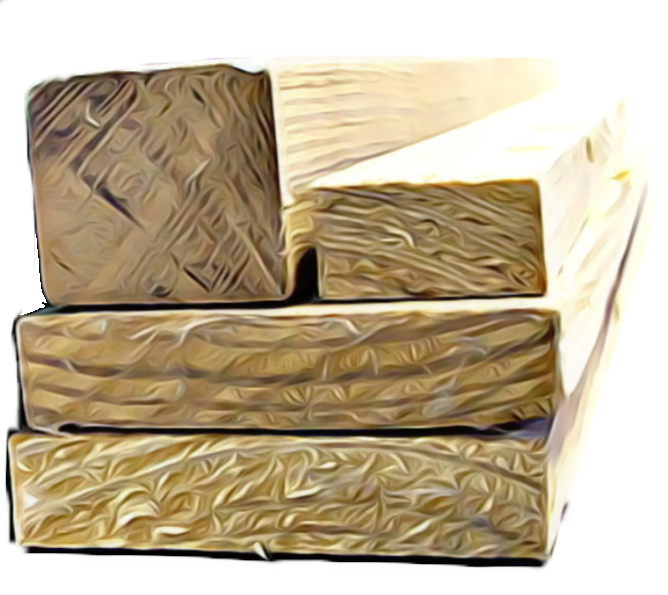
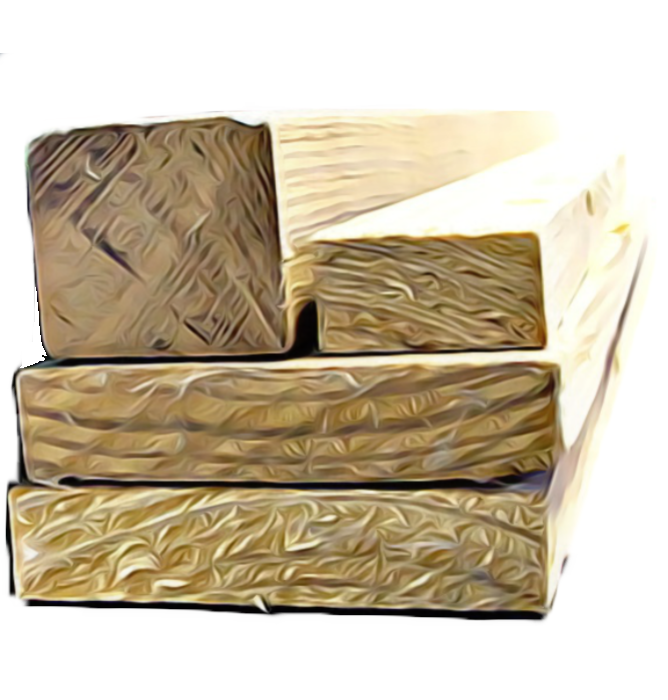
Changed images; testing wood graphics

diff --git a/Priority_2_Thermodynamics/Flammable_Steel/js/main.js b/Priority_2_Thermodynamics/Flammable_Steel/js/main.js
@@ -1,5 +1,6 @@
 /* File: main.js
- * Dependencies: Fire.js, FlammableItem.js, Steel.js, Match.js, Matchbox.js
+ * Dependencies: Fire.js, FlammableItem.js, Steel.js, Match.js, Matchbox.js,
+ *               Wood.js
  *
  * Author: Brooke Bullek (June 2017)
  *         Under the supervision of Margot Vigeant, Bucknell University
@@ -15,6 +16,11 @@ var STEEL2_URL = "https://github.com/DTV96Calibre/InquiryActivities/blob/master/
 var STEEL3_URL = "https://github.com/DTV96Calibre/InquiryActivities/blob/master/Priority_2_Thermodynamics/Flammable_Steel/images/steel3.png?raw=true";
 var STEEL4_URL = "https://github.com/DTV96Calibre/InquiryActivities/blob/master/Priority_2_Thermodynamics/Flammable_Steel/images/steel4.png?raw=true";
 var STEEL_FIRE_URL = "https://github.com/DTV96Calibre/InquiryActivities/blob/master/Priority_2_Thermodynamics/Flammable_Steel/images/steelwool-fire.png?raw=true";
+var WOOD0_URL = "https://github.com/DTV96Calibre/InquiryActivities/blob/master/Priority_2_Thermodynamics/Flammable_Steel/images/wood0.png?raw=true";
+var WOOD1_URL = "https://github.com/DTV96Calibre/InquiryActivities/blob/master/Priority_2_Thermodynamics/Flammable_Steel/images/wood1.png?raw=true";
+var WOOD2_URL = "https://github.com/DTV96Calibre/InquiryActivities/blob/master/Priority_2_Thermodynamics/Flammable_Steel/images/wood2.png?raw=true";
+var WOOD3_URL = "https://github.com/DTV96Calibre/InquiryActivities/blob/master/Priority_2_Thermodynamics/Flammable_Steel/images/wood3.png?raw=true";
+var WOOD4_URL = "https://github.com/DTV96Calibre/InquiryActivities/blob/master/Priority_2_Thermodynamics/Flammable_Steel/images/wood4.png?raw=true";
 var MATCH_UP_URL = "https://github.com/DTV96Calibre/InquiryActivities/blob/master/Priority_2_Thermodynamics/Flammable_Steel/images/matchstick-up.png?raw=true";
 var MATCH_DOWN_URL = "https://github.com/DTV96Calibre/InquiryActivities/blob/master/Priority_2_Thermodynamics/Flammable_Steel/images/matchstick-down.png?raw=true";
 var MATCHBOX_URL = "https://github.com/DTV96Calibre/InquiryActivities/blob/master/Priority_2_Thermodynamics/Flammable_Steel/images/matchbox.png?raw=true";
@@ -28,8 +34,8 @@ var slider;
 var fire;
 var matchstick;
 var matchbox;
-var steelLeft;
-var steelRight;
+var flammableLeft;
+var flammableRight;
 
 /************************ Simulation variables *****************************/
 
@@ -56,9 +62,9 @@ function setup() {
   initConfig();
   initImages();
 
-  // Init fire, steel, etc.
-  steelLeft = new Steel(false);
-  steelRight = new Steel(true);
+  // Init fire, steel/wood, etc.
+  flammableLeft = new Steel(false);
+  flammableRight = new Steel(true);
   matchbox = new Matchbox();
   matchstick = new Match();
   fire = new Fire();
@@ -80,10 +86,10 @@ function setup() {
 function initConfig() {
   var w = wideAspectRatio;
   config = {
-    steelWidthRatio:        w ? 0.2 : 0.2,     // times windowWidth
-    steelLeftXOffsetRatio:  w ? 0.333 : 0.167, // times windowWidth
-    steelRightXOffsetRatio: w ? 0.667 : 0.667, // times windowWidth
-    steelYOffsetRatio:      w ? 0.333 : 0.333, // times windowHeight
+    itemWidthRatio:         w ? 0.2 : 0.2,     // times windowWidth
+    itemLeftXOffsetRatio:   w ? 0.333 : 0.167, // times windowWidth
+    itemRightXOffsetRatio:  w ? 0.667 : 0.667, // times windowWidth
+    itemYOffsetRatio:       w ? 0.333 : 0.333, // times windowHeight
     matchboxHeightRatio:    w ? 1.2 : 1.2,     // times matchstick.height
     matchboxPaddingRatio:   w ? 0.05 : 0.05,   // times windowWidth
     matchHeightRatio:       w ? 0.25 : 0.25,   // times windowHeight
@@ -107,6 +113,11 @@ function initImages() {
     steel2: createImg(STEEL2_URL, windowResized),
     steel3: createImg(STEEL3_URL, windowResized),
     steel4: createImg(STEEL4_URL, windowResized),
+    wood0: createImg(WOOD0_URL, windowResized),
+    wood1: createImg(WOOD1_URL, windowResized),
+    wood2: createImg(WOOD2_URL, windowResized),
+    wood3: createImg(WOOD3_URL, windowResized),
+    wood4: createImg(WOOD4_URL, windowResized),
     steel_fire: createImg(STEEL_FIRE_URL, windowResized),
     matchbox: createImg(MATCHBOX_URL, windowResized),
     matchbox_cover: createImg(MATCHBOX_COVER_URL, windowResized),
@@ -132,16 +143,16 @@ function initImages() {
 function draw() {
   background(BG_COLOR); // Clear the canvas
 
-  if (steelRight.cursorIsOver()) {
-    steelRight.setFire();
+  if (flammableRight.cursorIsOver()) {
+    flammableRight.setFire();
   }
 
   // Draw grey border around steel panel
   drawPanel();
   
   // Render onscreen elements
-  steelLeft.draw();
-  steelRight.draw();
+  flammableLeft.draw();
+  flammableRight.draw();
   matchbox.drawBottom();
   matchstick.draw();
   fire.update();
@@ -153,10 +164,11 @@ function draw() {
  */
 function drawPanel() {
   fill(config['panelFillColor']);
-  var xPos = steelLeft.xOffset * 0.8;
-  var yPos = steelLeft.yOffset * 0.4;
-  var width = steelRight.xOffset + steelLeft.width - steelLeft.xOffset / 1.5;
-  var height = max(windowHeight * 0.6, steelRight.yOffset + steelLeft.height * config['sliderYOffsetRatio']);
+  var xPos = flammableLeft.xOffset * 0.8;
+  var yPos = flammableLeft.yOffset * 0.4;
+  var width = flammableRight.xOffset + flammableLeft.width - flammableLeft.xOffset / 1.5;
+  var height = max(windowHeight * 0.6, flammableRight.yOffset + flammableLeft.height 
+    * config['sliderYOffsetRatio']);
   var edge = config['panelEdgeRoundness'];
   rect(xPos, yPos, width, height, edge, edge, edge, edge);
 }
@@ -177,9 +189,9 @@ function windowResized() {
   }
 
   // Update variables that scale with screen size
-  steelLeft.resize();
-  steelRight.resize();
-  slider.position(steelRight.xOffset, steelLeft.yOffset + steelLeft.height 
+  flammableLeft.resize();
+  flammableRight.resize();
+  slider.position(flammableRight.xOffset, flammableLeft.yOffset + flammableLeft.height 
     * config['sliderYOffsetRatio']);
   matchbox.resize();
   matchstick.setToOriginPos();
@@ -193,8 +205,8 @@ function windowResized() {
  */
 function sliderChanged() {
   var intID = slider.value();
-  var imageID = "steel" + intID;
-  steelRight.changeImage(imageID);
+  var imageID = "wood" + intID;
+  flammableRight.changeImage(imageID);
 }
 
 /* ==================================================================

diff --git a/Priority_2_Thermodynamics/Flammable_Steel/js/FlammableItem.js b/Priority_2_Thermodynamics/Flammable_Steel/js/FlammableItem.js
@@ -20,18 +20,18 @@ function FlammableItem(isMutable) {
    * Sets the graphical properties of this object based on the window size.
    */
   this.resize = function() {
-    this.width = windowWidth * config['steelWidthRatio'];
+    this.width = windowWidth * config['itemWidthRatio'];
     var aspectRatio = this.img.elt.width / this.img.elt.height;
     this.height = this.width / aspectRatio;
 
     // Horizontal offset depends on which item (left or right) is being drawn
     if (this.isMutable) {
-      this.xOffset = windowWidth * config['steelRightXOffsetRatio'];
+      this.xOffset = windowWidth * config['itemRightXOffsetRatio'];
     } else {
-      this.xOffset = windowWidth * config['steelLeftXOffsetRatio'];
+      this.xOffset = windowWidth * config['itemLeftXOffsetRatio'];
     }
 
-    this.yOffset = windowHeight * config['steelYOffsetRatio'] - this.height / 2;
+    this.yOffset = windowHeight * config['itemYOffsetRatio'] - this.height / 2;
   }
 
   /*

diff --git a/Priority_2_Thermodynamics/Flammable_Steel/js/Wood.js b/Priority_2_Thermodynamics/Flammable_Steel/js/Wood.js
@@ -1,0 +1,25 @@
+/* File: Wood.js
+ * Author: Brooke Bullek (June 2017)
+ *         Under the supervision of Margot Vigeant, Bucknell University
+ */
+
+/*
+ * This class encapsulates the behavior of the wood (which is rendered in 
+ * discrete intervals from log->planks->sticks->woodchips->sawdust).
+ */
+function Wood(isMutable) {
+  FlammableItem.call(this, isMutable); // Inherit from FlammableItem parent class
+  Steel.prototype = Object.create(FlammableItem.prototype);
+
+  this.img = images['wood0']; // Image is initialized to the wood log
+
+  /*
+   * Sets this wood on fire, which updates its appearance.
+   */
+  this.setFire = function() {
+    if (holdingMatch) {
+      this.hasCaughtFire = true;
+      this.changeImage('steel_fire');
+    }
+  }
+}
